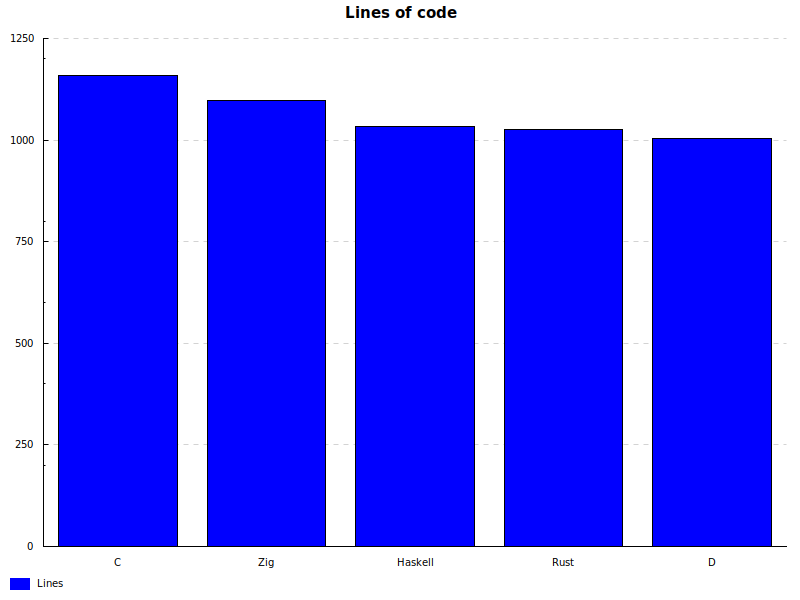
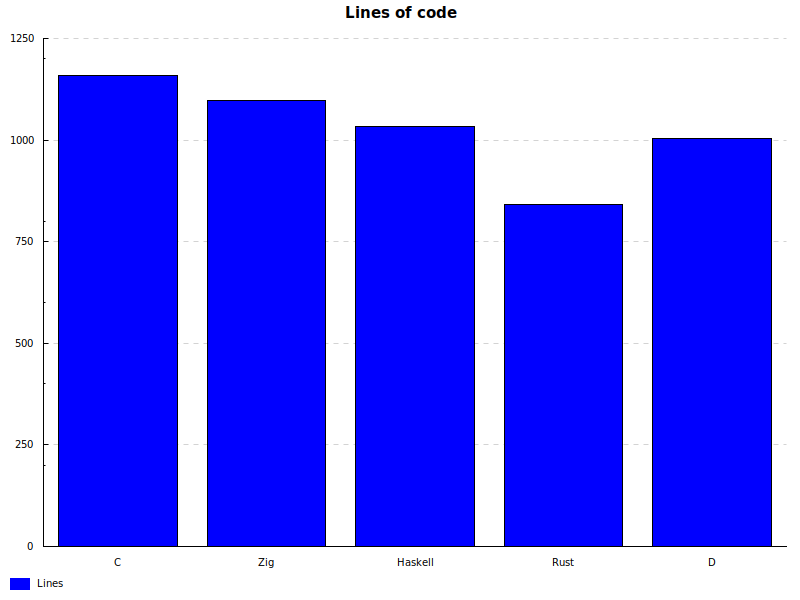
Improve readme

Changed region(s): [[0.625, 0.21, 0.7812, 0.36]]

diff --git a/README.md b/README.md
@@ -61,7 +61,15 @@ There is smooth gameplay. Some drops can be explained by interference of other s
 
 ### Rust
 Smooth gameplay. It was quite easy to implement the game and get high performance from first try.
+
 ![Rust FPS](./rust/fps.png)
+
+I used specs as first implementation and than rewrote to legion for more cleaner code. Amount of code
+and memory usage is dropped significantly. Also, I disabled legion multithreading as performance
+with it drops to maximum 6000 FPS as the major time game sit in work stealer inside legion schedule system.
+In single thread mode both ECS have near identical performance.
+
+![ECS Compare](./rust/ecs_compare.png)
 
 ### Zig
 Very stable frame rate. Feels like great upgrade over C in development experience and performance.
@@ -87,8 +95,8 @@ Language                     files          blank        comment           code
 C                               19            163              3           1159
 Zig                             23            165            149           1097
 Haskell                         25            157             37           1033
-Rust                            23            123             78           1027
-D                               27            192            183           1003
+D                               32            194            184           1015
+Rust                            23            113             74            842
 ```
 
 ![Line of Codes](./code_lines.png)
